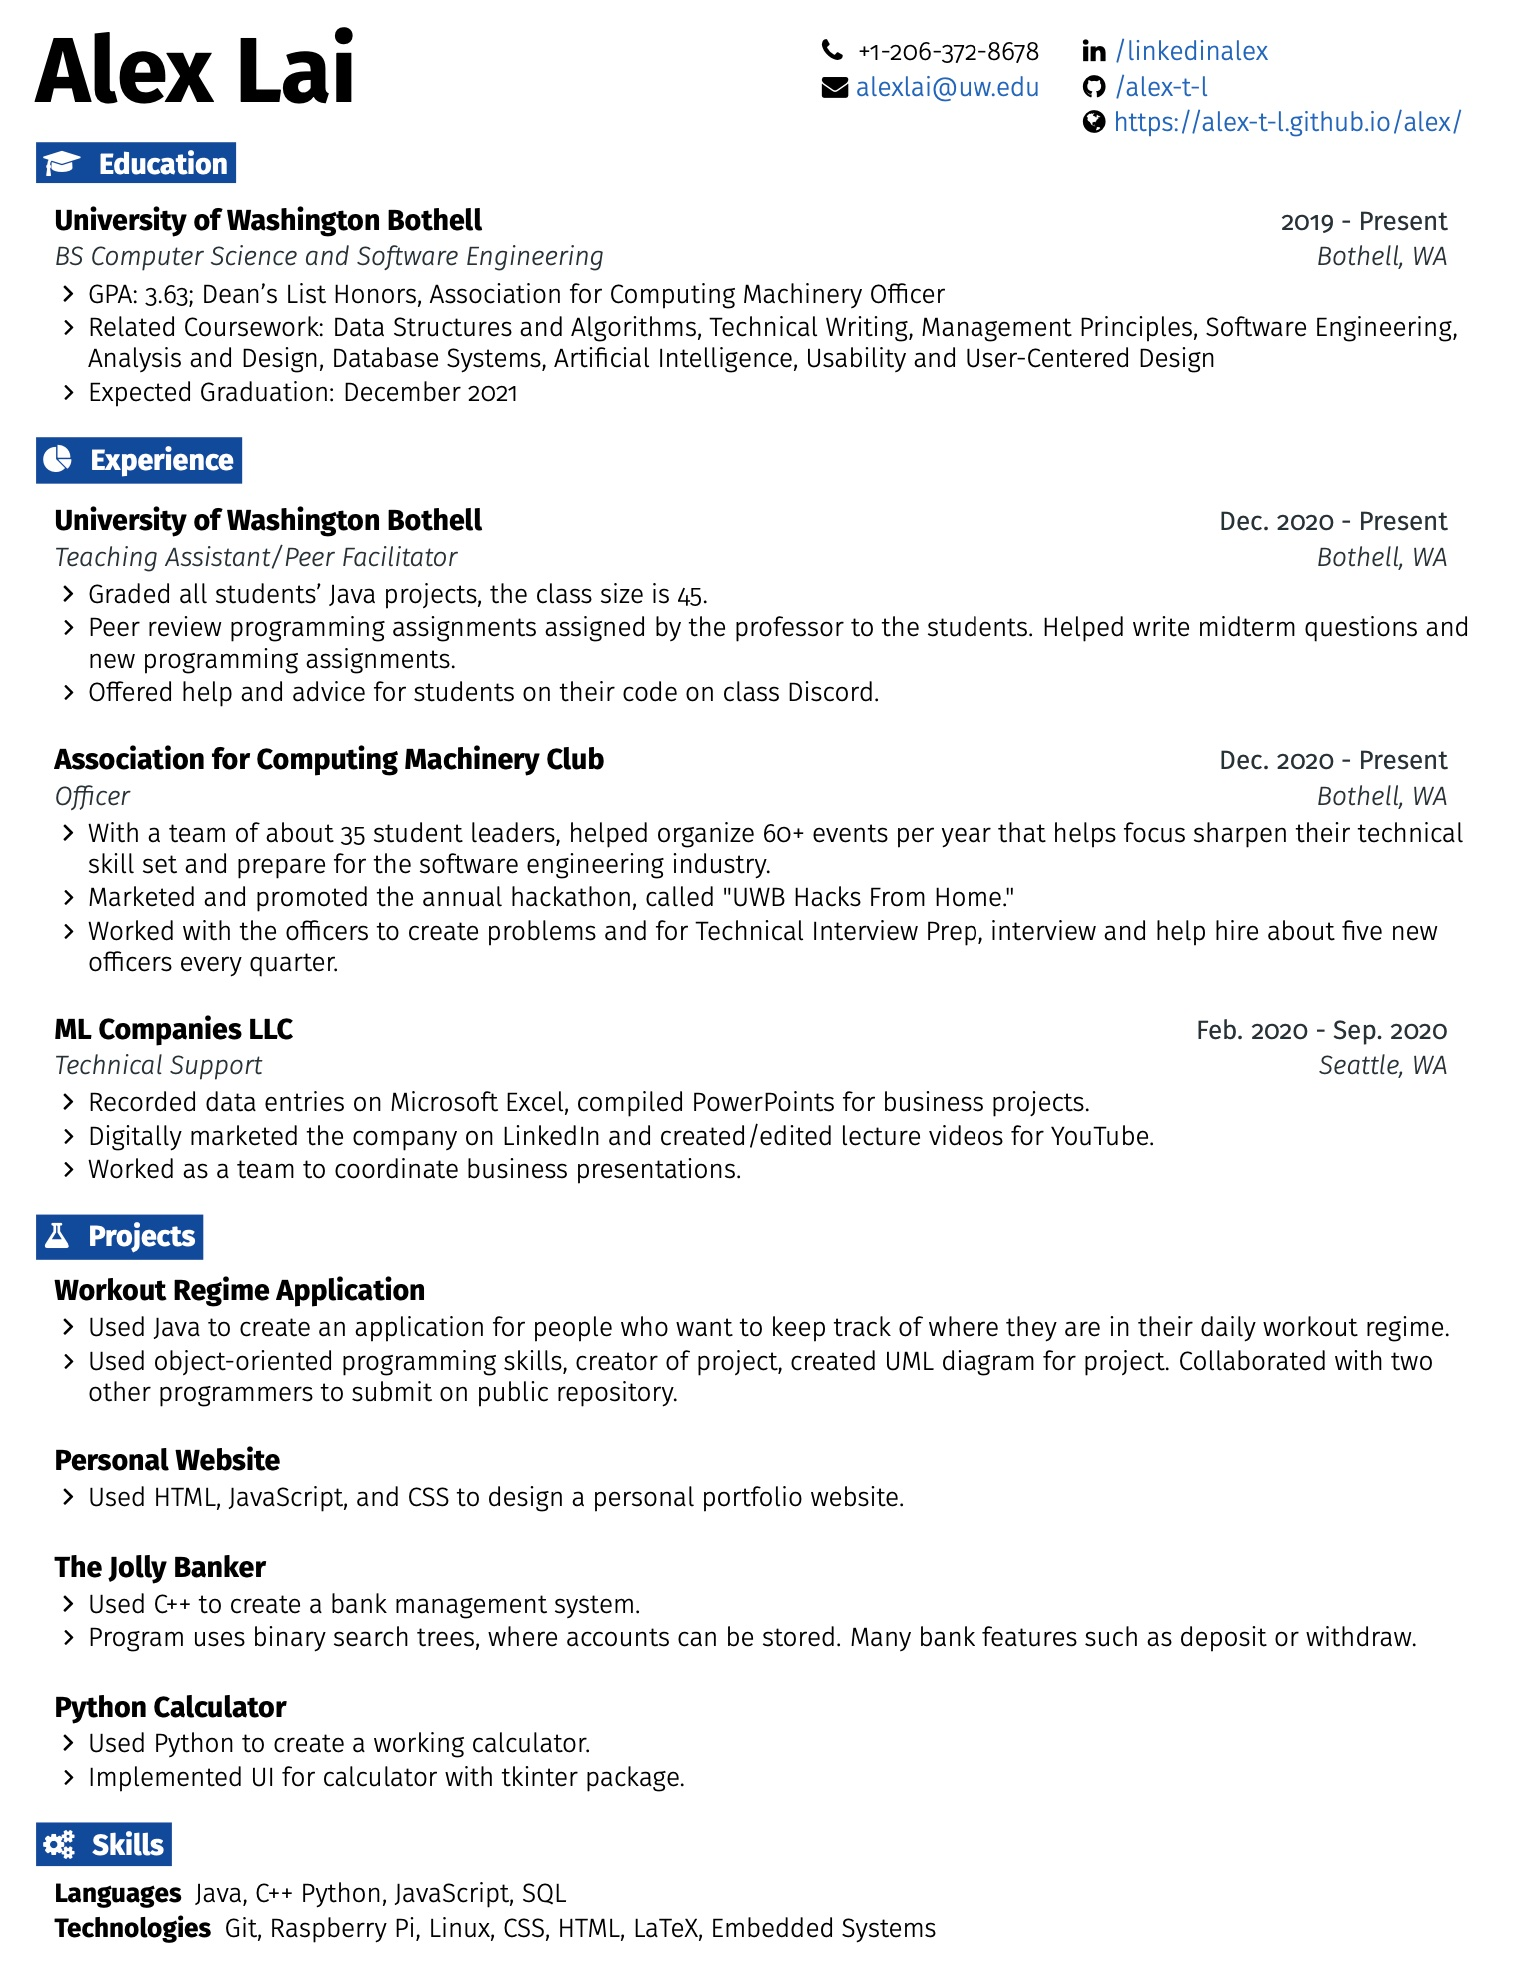
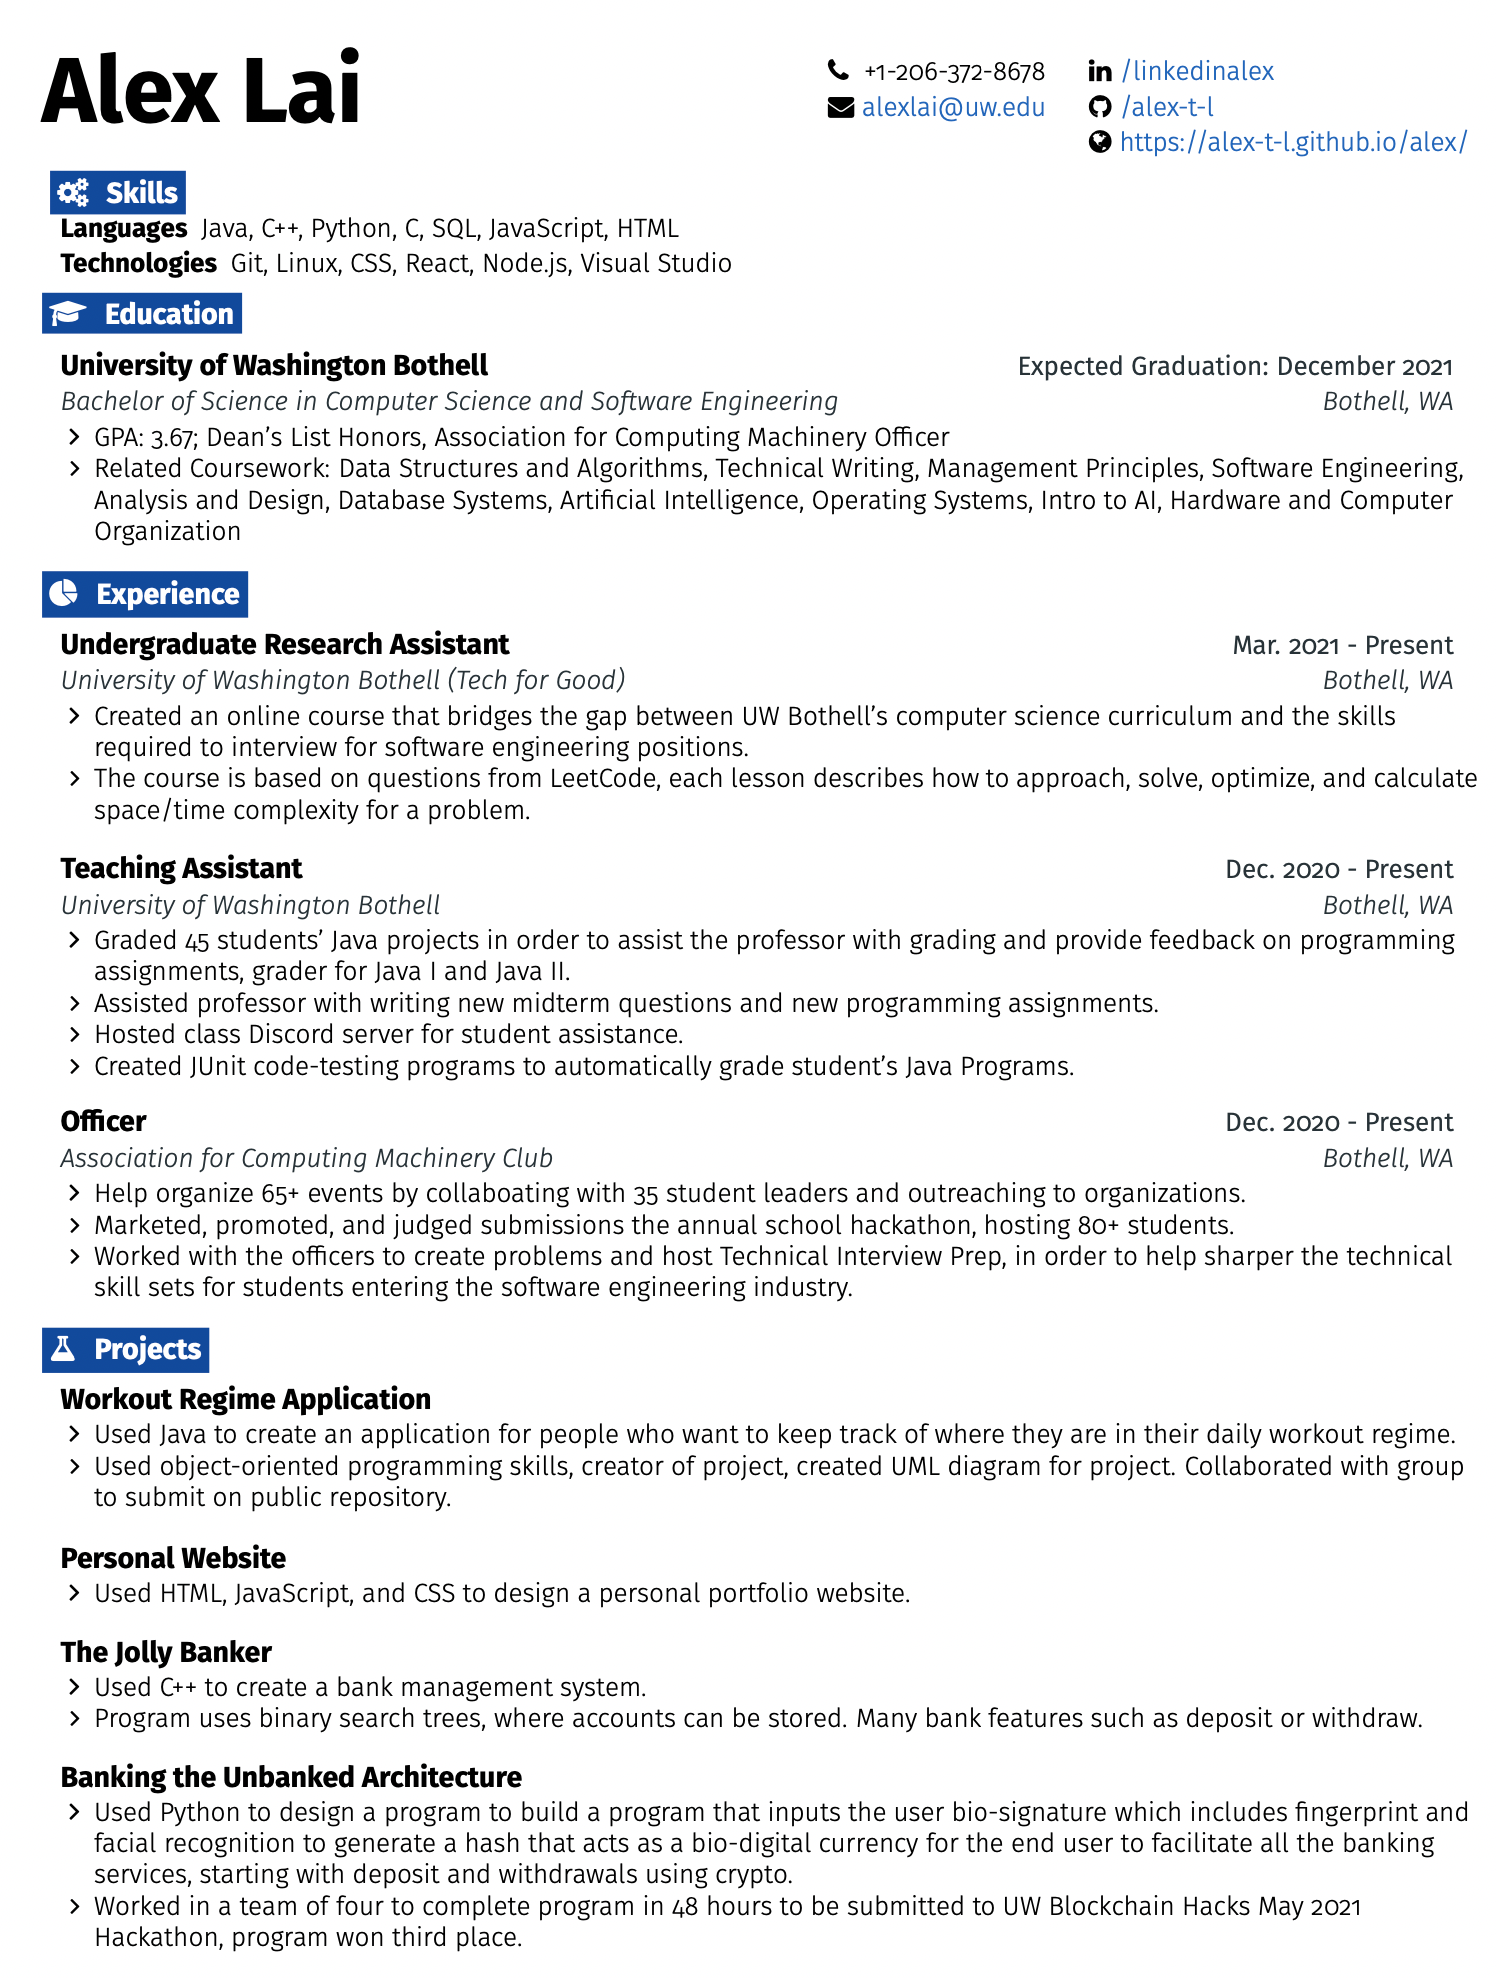
Add files via upload
Updates to resume and projects

Changed region(s): [[0.0, 0.0, 0.984, 0.9939], [0.738, 0.8075, 0.8302, 0.8386], [0.861, 0.8075, 0.9225, 0.8386]]

diff --git a/index.html b/index.html
@@ -44,7 +44,7 @@
 							<article id="intro">
 								<h2 class="major">Intro</h2>
 								<span class="image main"><img src="images/pic01.jpg" alt="" /></span>
-								<p>I am a motivated young hard worker. I am experienced in team-based projects and management, and skilled at C++ and Java. I am open to learning new skills all the time and I'm a quick learner. I love meeting new people, and I learning new things diligently.  </p>
+								<p> I am a software engineer with full stack skills.  </p>
 								<p> I am skilled at coding, problem-solving, collaborating, and communication. I consider myself to be a team player, and vocal leader. My side interests are: fitness, nutrition, sports, and pets. In my free time, I like to hang out with my family (my twin brother is the one on left) workout, walk my dog, watch sports, and code for fun. </p>
 							</article>
 
@@ -56,6 +56,7 @@
 								<p><a href="https://github.com/alex-t-l/Calculator">Python Calculator, implemented UI using tkinter.</a> </p>
 								<p><a href="https://alex-t-l.github.io/alex/#">Personal website, made using HTML, CSS, & JS.</a> </p>
 								<p><a href="https://github.com/alex-t-l/CSS-342">Jolly Banker, Banker System, made using C++.</a> </p>
+								<p><a href="https://devpost.com/software/banking-the-unbanked">Banking the Unbanked, using Python. Project placed 3rd Place in hackathon.</a> </p>
 								<a>Will always be adding more.</a>
 								<p>All of my projects can be found on my <a href="https://github.com/alex-t-l">Github.</a></p>
 							</article>
